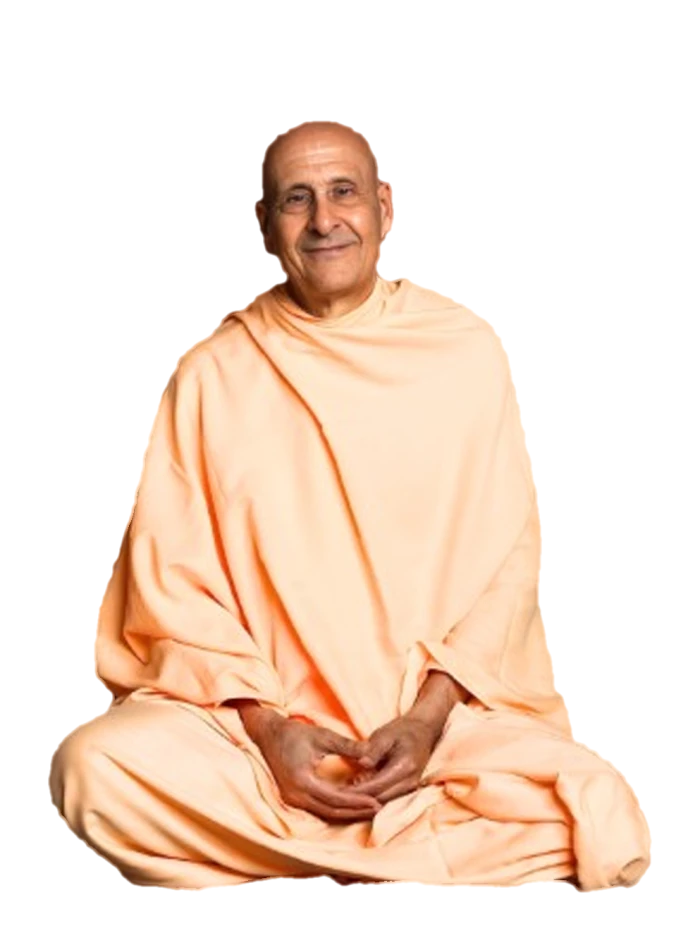
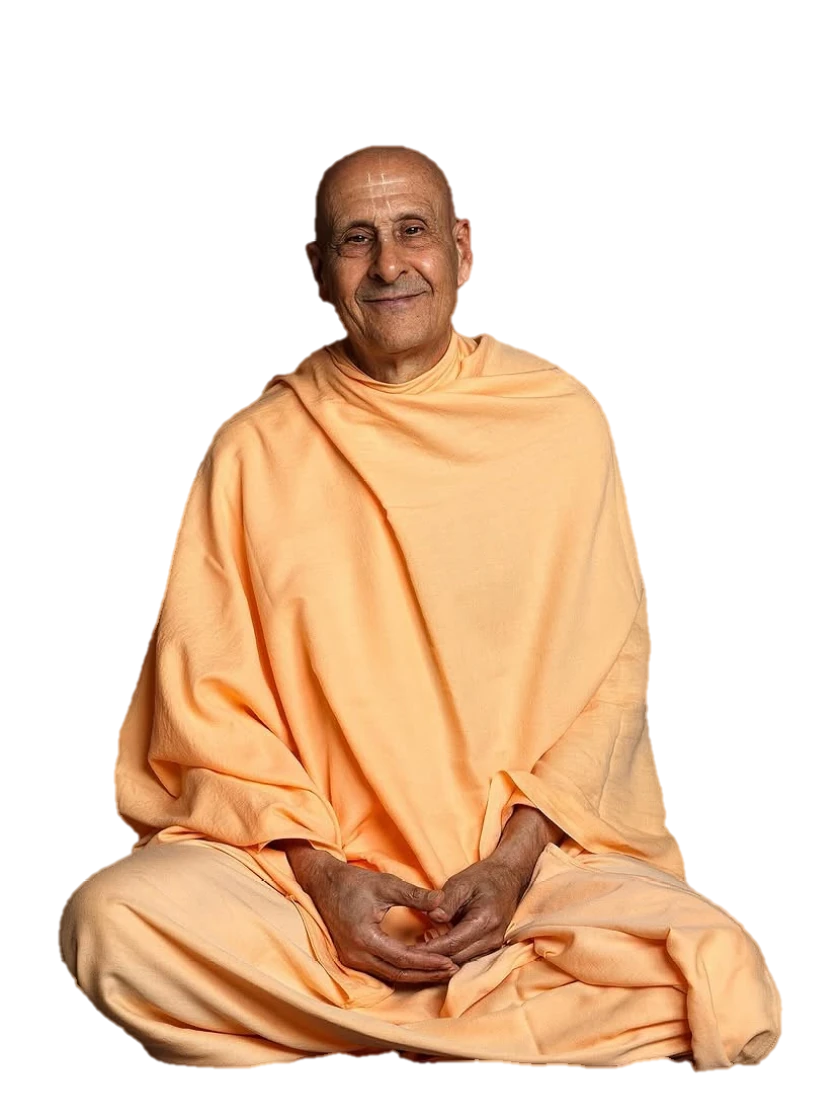
Hero portrait: redo the cutout from the original photo
The original photo has no cover text and is 1080x1350, so the cutout is sharper (840x1120) and his tilak shows. Edges were checked at 3x zoom.

diff --git a/index.html b/index.html
@@ -86,7 +86,7 @@
                 </div>
 
                 <figure class="hero-portrait" id="hero-portrait">
-                    <img src="assets/images/maharaj-seated.webp" alt="His Holiness Radhanath Swami Maharaj, seated and smiling, in saffron robes" width="700" height="933" fetchpriority="high">
+                    <img src="assets/images/maharaj-seated.webp?v=2" alt="His Holiness Radhanath Swami Maharaj, seated and smiling, in saffron robes" width="840" height="1120" fetchpriority="high">
                     <figcaption>HH Radhanath Swami</figcaption>
                 </figure>
             </div>
